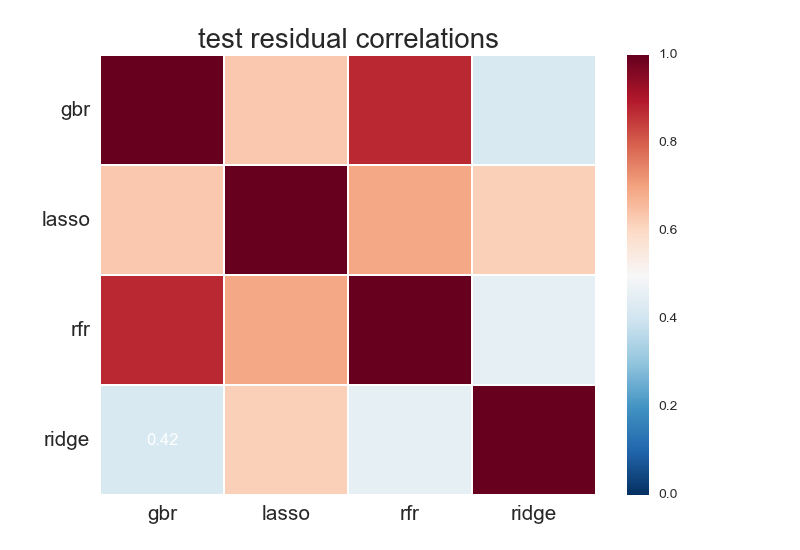
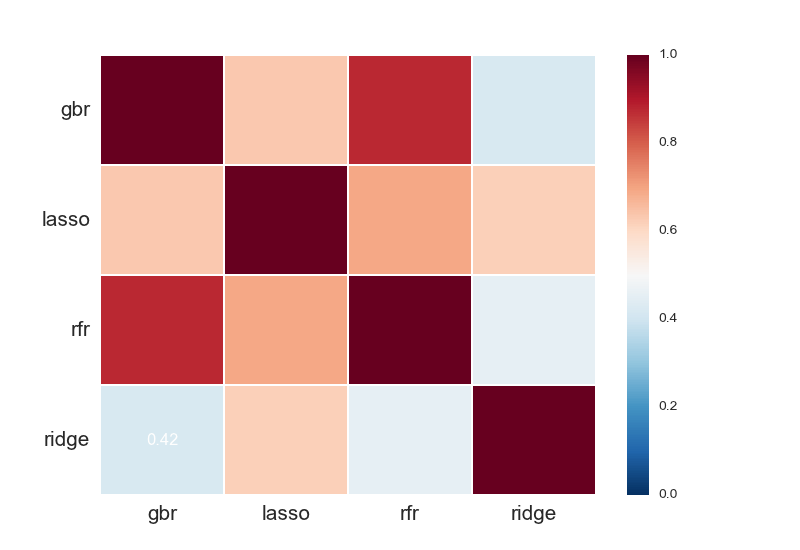
edits to readme

Changed region(s): [[0.25, 0.0618, 0.625, 0.0927]]

diff --git a/ANALYSIS/RESIDUALS/error_corr.py b/ANALYSIS/RESIDUALS/error_corr.py
@@ -110,5 +110,5 @@ if __name__ == '__main__':
 	sns.heatmap(corrmat,center=0.5,annot=True,linewidths=0.5,robust=True)
 	plt.xticks(rotation=0,fontsize=15)
 	plt.yticks(rotation=0,fontsize=15)
-	plt.title(predtype+' residual correlations',fontsize=20)
+	#plt.title(predtype+' residual correlations',fontsize=20)
 	plt.savefig(ttype+'.'+predtype+'.corrmat.png')
